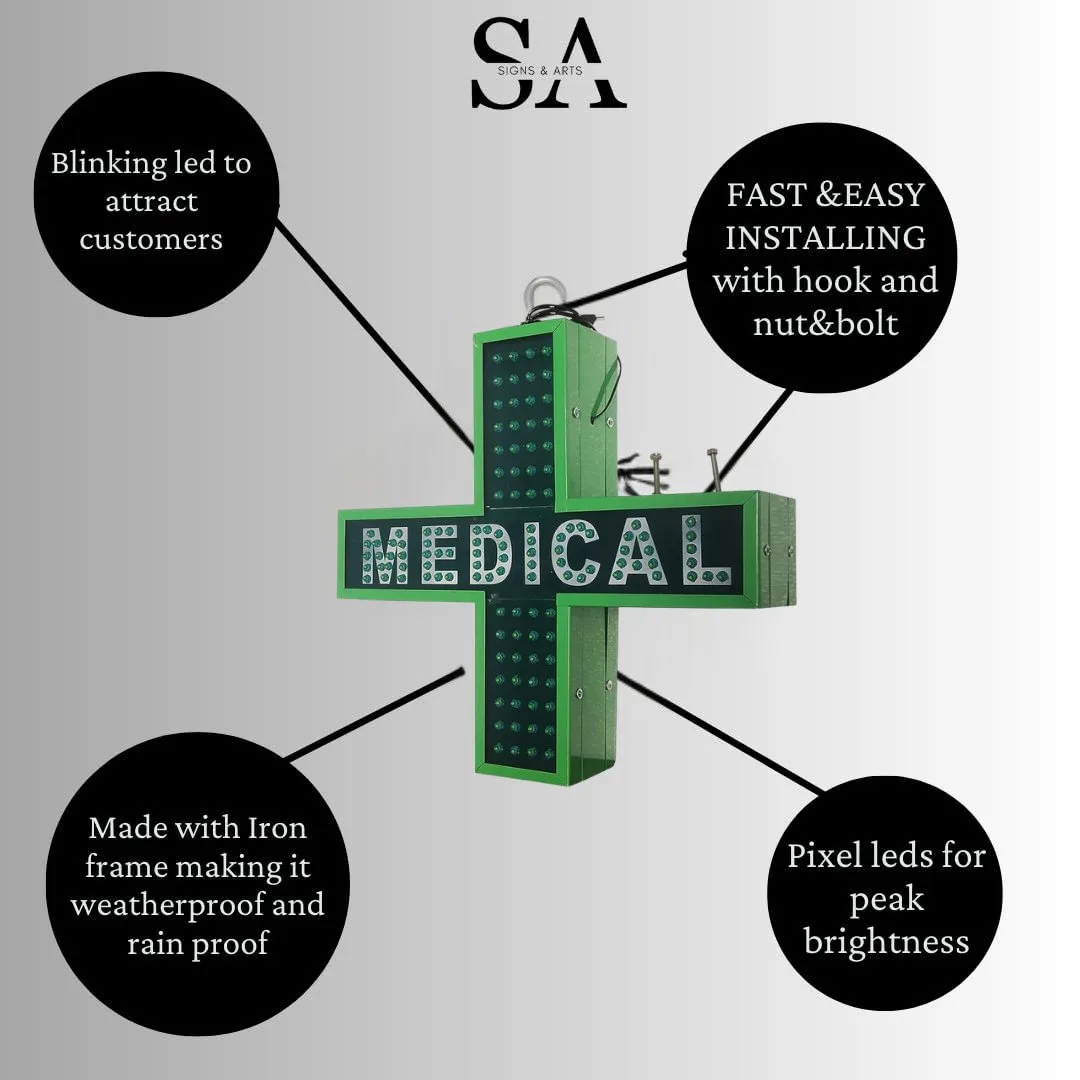
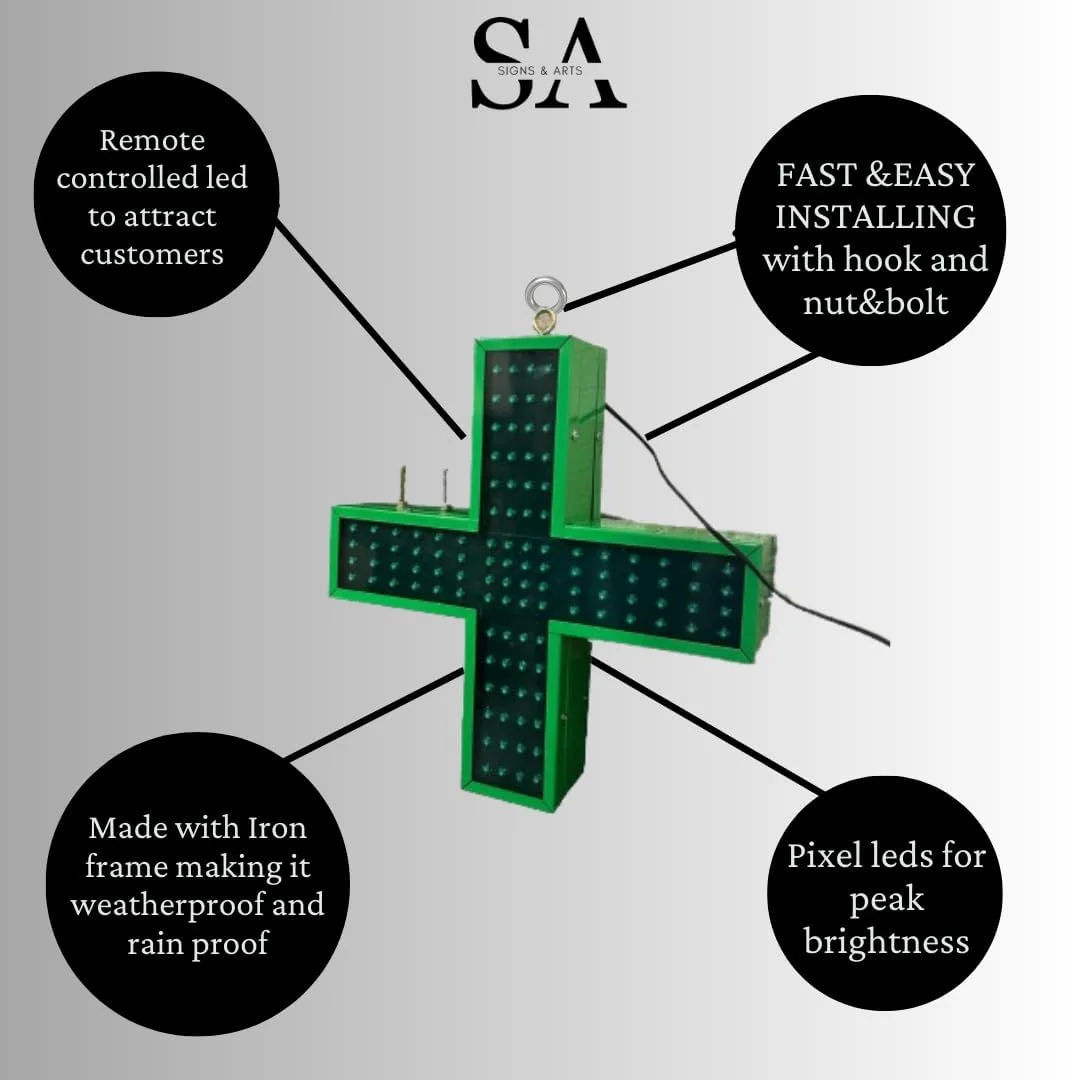
Update Medical & Pharmacy product: real Amazon photos + SEO title
- Replace gallery images with authentic product photos from Amazon listing
- SEO-optimize title, meta description, H1 (green plus, double sided, 18x18)
- Fix led image alt text to match new image

diff --git a/medical-pharmacy-led-sign-board/index.html b/medical-pharmacy-led-sign-board/index.html
@@ -3,8 +3,8 @@
 <head>
   <meta charset="UTF-8">
   <meta name="viewport" content="width=device-width, initial-scale=1.0">
-  <title>Medical &amp; Pharmacy LED Sign Board — Green, Double Sided | Signs and Arts</title>
-  <meta name="description" content="Buy a green double-sided Medical and Pharmacy LED sign board in 18x18 or 24x24 inch sizes. Weatherproof pixel LED storefront board with pan India delivery.">
+  <title>Medical &amp; Pharmacy Green Plus LED Sign Board — Double Sided 18x18 Outdoor | Signs and Arts</title>
+  <meta name="description" content="Buy the green plus Medical &amp; Pharmacy LED sign board — double-sided flashing, ultra-bright pixel LEDs, weatherproof iron frame, remote controlled. Sizes 18x18 &amp; 24x24 inch, plug &amp; play, COD &amp; pan-India delivery.">
   <meta name="keywords" content="medical LED sign board, pharmacy LED sign board, medical shop light board, pharmacy sign board, green LED cross sign India">
   <link rel="canonical" href="https://signsandarts.in/medical-pharmacy-led-sign-board/">
   <link rel="preconnect" href="https://fonts.googleapis.com">
@@ -308,7 +308,7 @@
       <img src="size.webp" alt="Medical and Pharmacy LED Sign Board Size 18x18 inch" id="mi1">
       <img src="features.webp" alt="Medical and Pharmacy LED Sign Board Features" id="mi2">
       <img src="overview.webp" alt="Medical and Pharmacy LED Sign Board Full Overview" id="mi3">
-      <img src="led.webp" alt="Pixel LED Technology Close Up" id="mi4">
+      <img src="led.webp" alt="Medical and Pharmacy LED Sign Board Remote and Feature Details" id="mi4">
       <button class="vid-overlay" onclick="openVid()">&#9654; Watch Video</button>
     </div>
     <div class="thumb-strip">
@@ -316,7 +316,7 @@
       <img src="size.webp" class="thumb" onclick="switchMain(1)" alt="Size">
       <img src="features.webp" class="thumb" onclick="switchMain(2)" alt="Features">
       <img src="overview.webp" class="thumb" onclick="switchMain(3)" alt="Overview">
-      <img src="led.webp" class="thumb" onclick="switchMain(4)" alt="LED">
+      <img src="led.webp" class="thumb" onclick="switchMain(4)" alt="Details">
       <button class="yt-thumb-btn" onclick="openVid()" title="Watch Video">&#9654;</button>
     </div>
   </div>
@@ -328,7 +328,7 @@
       <span class="badge badge-tm">&#8482; Trademark Registered</span>
     </div>
 
-    <h1 class="prod-title">Medical &amp; Pharmacy LED Sign Board — Green, Double Sided</h1>
+    <h1 class="prod-title">Medical &amp; Pharmacy Green Plus LED Sign Board — Double Sided</h1>
 
     <div class="prod-rating">
       <span class="stars">&#9733;&#9733;&#9733;&#9733;&#9733;</span>
